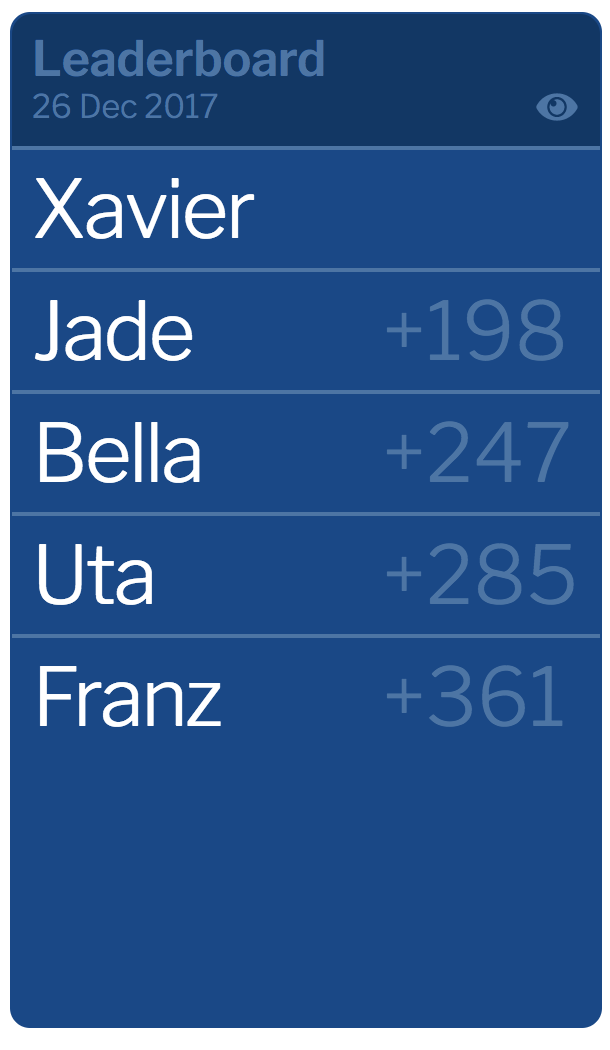
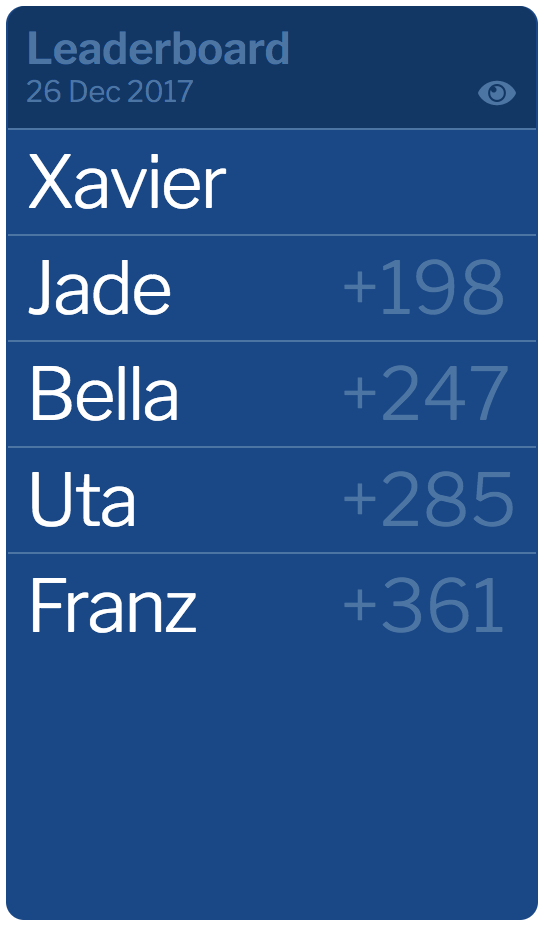
Updated screenshot.

Changed region(s): [[0.0, 0.0, 1.0, 1.0], [0.625, 0.5312, 0.6875, 0.5625], [0.625, 0.4062, 0.6875, 0.4375]]

diff --git a/readme.md b/readme.md
@@ -1,6 +1,6 @@
 # Anna, a kalooki scorecard
 
-<img src="images/screenshot.png" align="right" width="305" height="525">
+<img src="images/screenshot.png" align="right" width="272" height="464">
 
 Anna is a scorecard for [kalooki](https://en.wikipedia.org/wiki/Kalooki), the most popular Jamaican card game.
 
